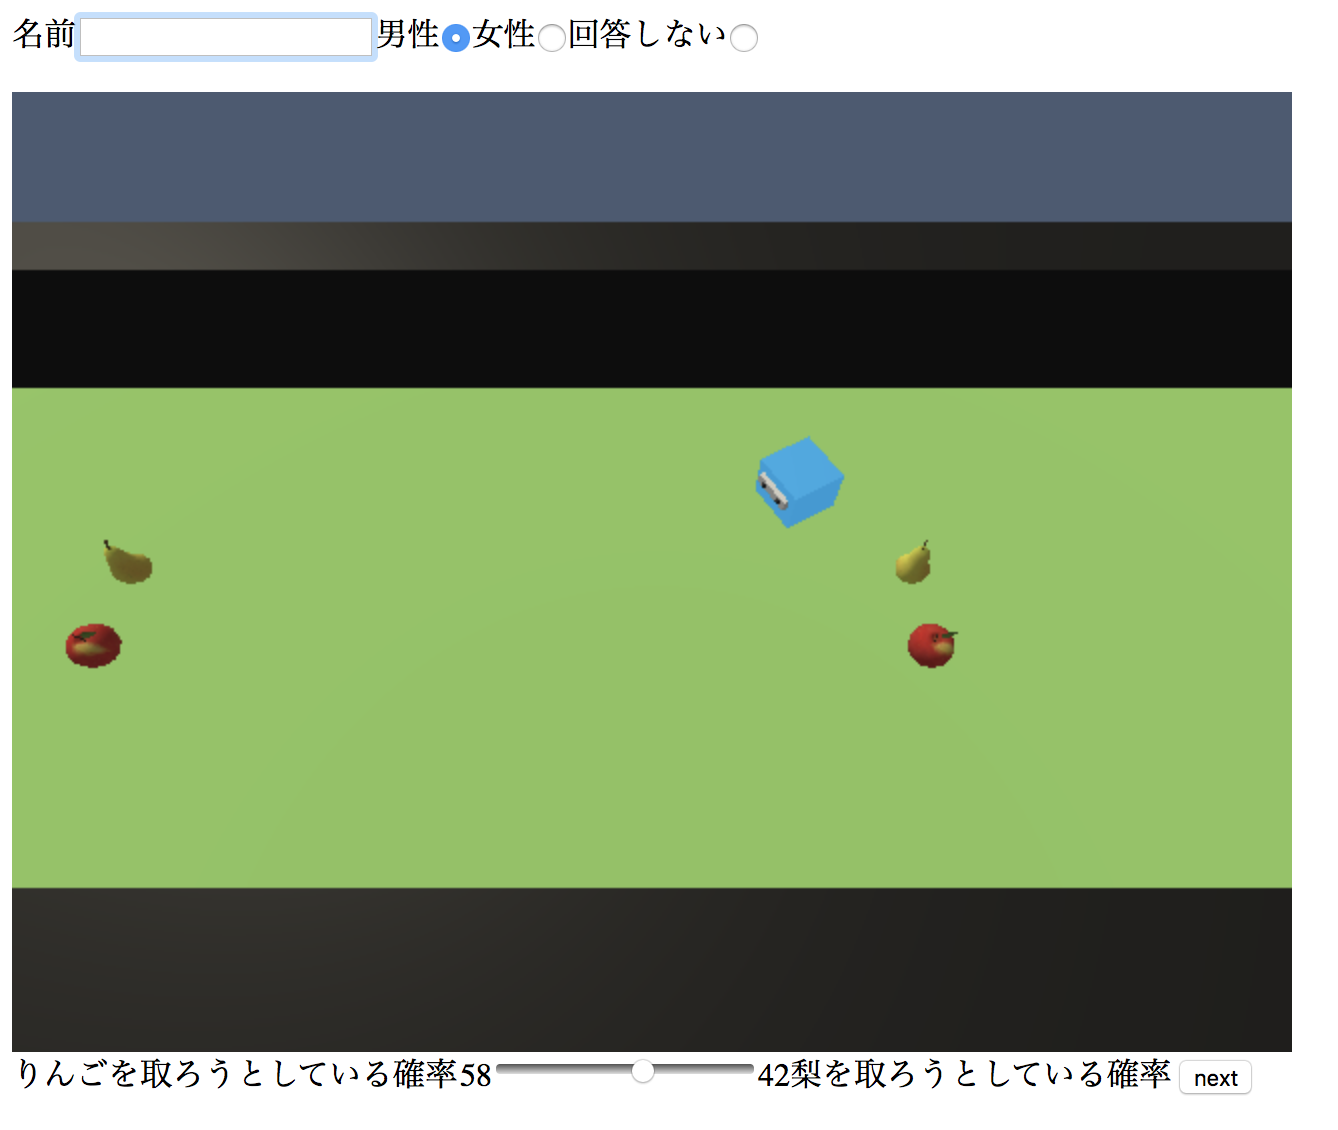
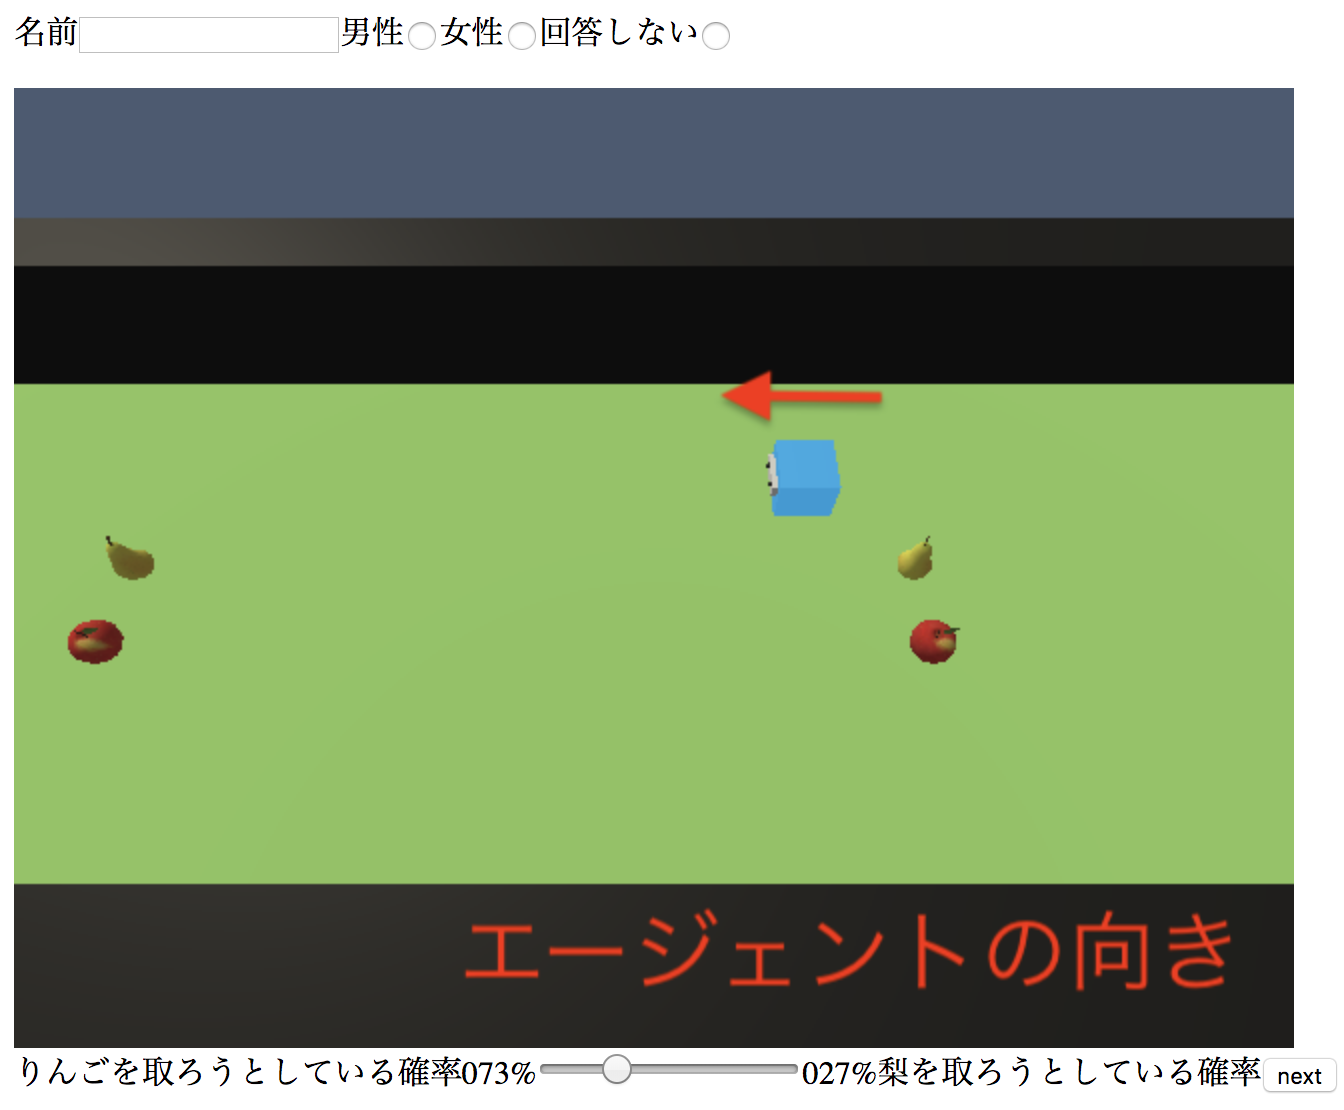
modify readme

diff --git a/README.md b/README.md
@@ -7,7 +7,7 @@
   - (上の画像に比べて視界が狭いことがわかると思います。)
 ![あなたの視界](imgs/human-perspective.png)
 - エージェントはりんごか梨のどちらかを取ろうとして動いていると考えてください。
-- みなさんは、自分の視界からエージェントの動きを見て、エージェントがりんごと梨のどちらを取ろうとしているか想像し、確率で答えてください。
+- 自分の視界からエージェントの動きを見て、エージェントがりんごと梨のどちらを取ろうとしているか想像し、確率で答えてもらいます。
 
 # 操作
 - 実際の操作画面はこんな感じです。
@@ -15,11 +15,11 @@
 - まず、上の名前と性別を記入してください。
 - 次に、下のnextボタンを押してください。
 - 中央に画像が表示されます。
-- エージェントがりんごと梨のどちらを取ろうとしているか想像して、下のバーで回答してください。
-  - スライダーを右に寄せるほど、「エージェントはりんごを取ろうとしている」確率が高いと考えていると言うことになります。
+- エージェントがりんごと梨のどちらを取ろうとしているか想像して、下のバーで確率を回答してください。
+  - スライダーを左に寄せるほど、「エージェントはりんごを取ろうとしている」確率が高いと考えていると言うことになります。
 - スライダーを操作したらnextボタンを押すことで、次のフレームに進めます。
 - 複数エピソード見てもらいます。
   - 新しいエピソードが始まるたびにスライドは元の位置に戻ります。
-  - エピソードの最初のフレームでは、エージェントがどこを向いているかわからなくなることを防ぐため、赤い矢印でエージェントの顔の向きを入れている場合があります
+  - エピソードの最初のフレームでは、エージェントがどこを向いているかわからなくなることを防ぐため、赤い矢印でエージェントの顔の向きを入れていることがあります
 
 [はじめる](test2.html)
